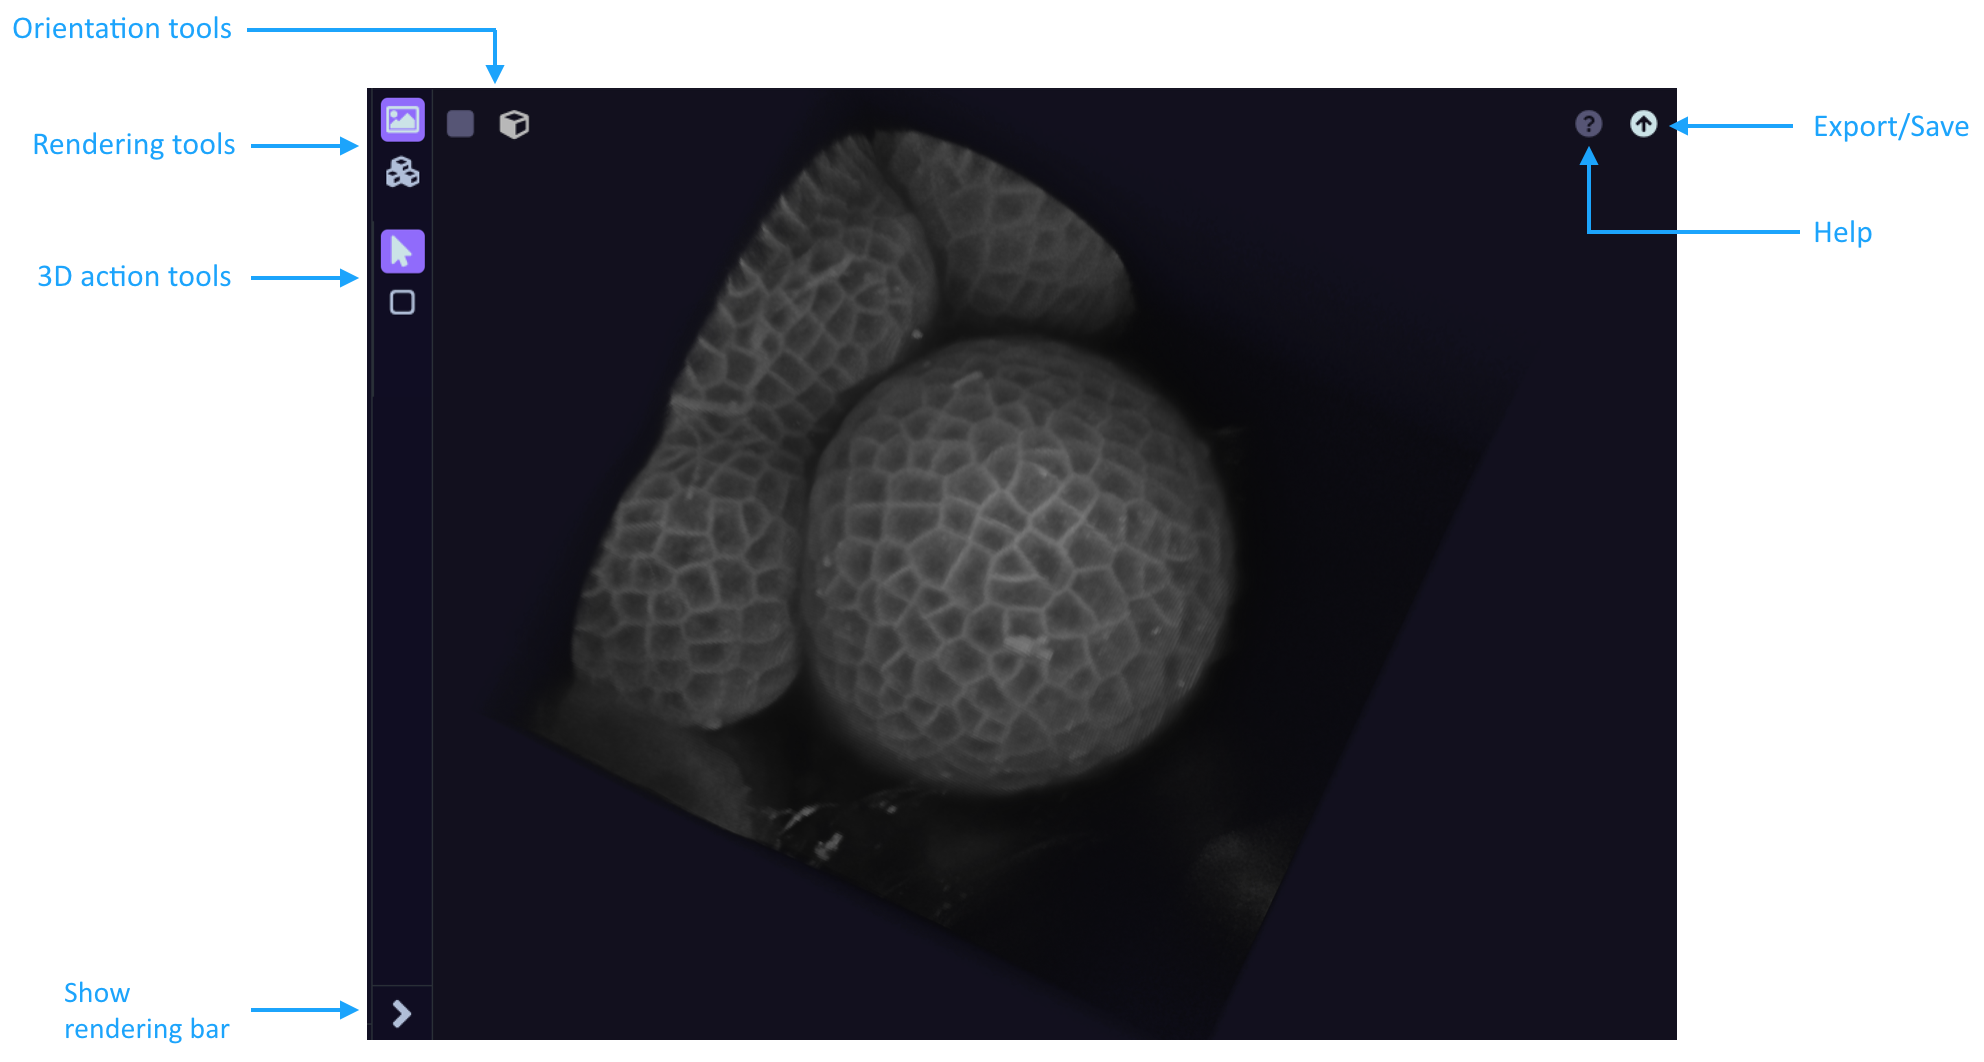
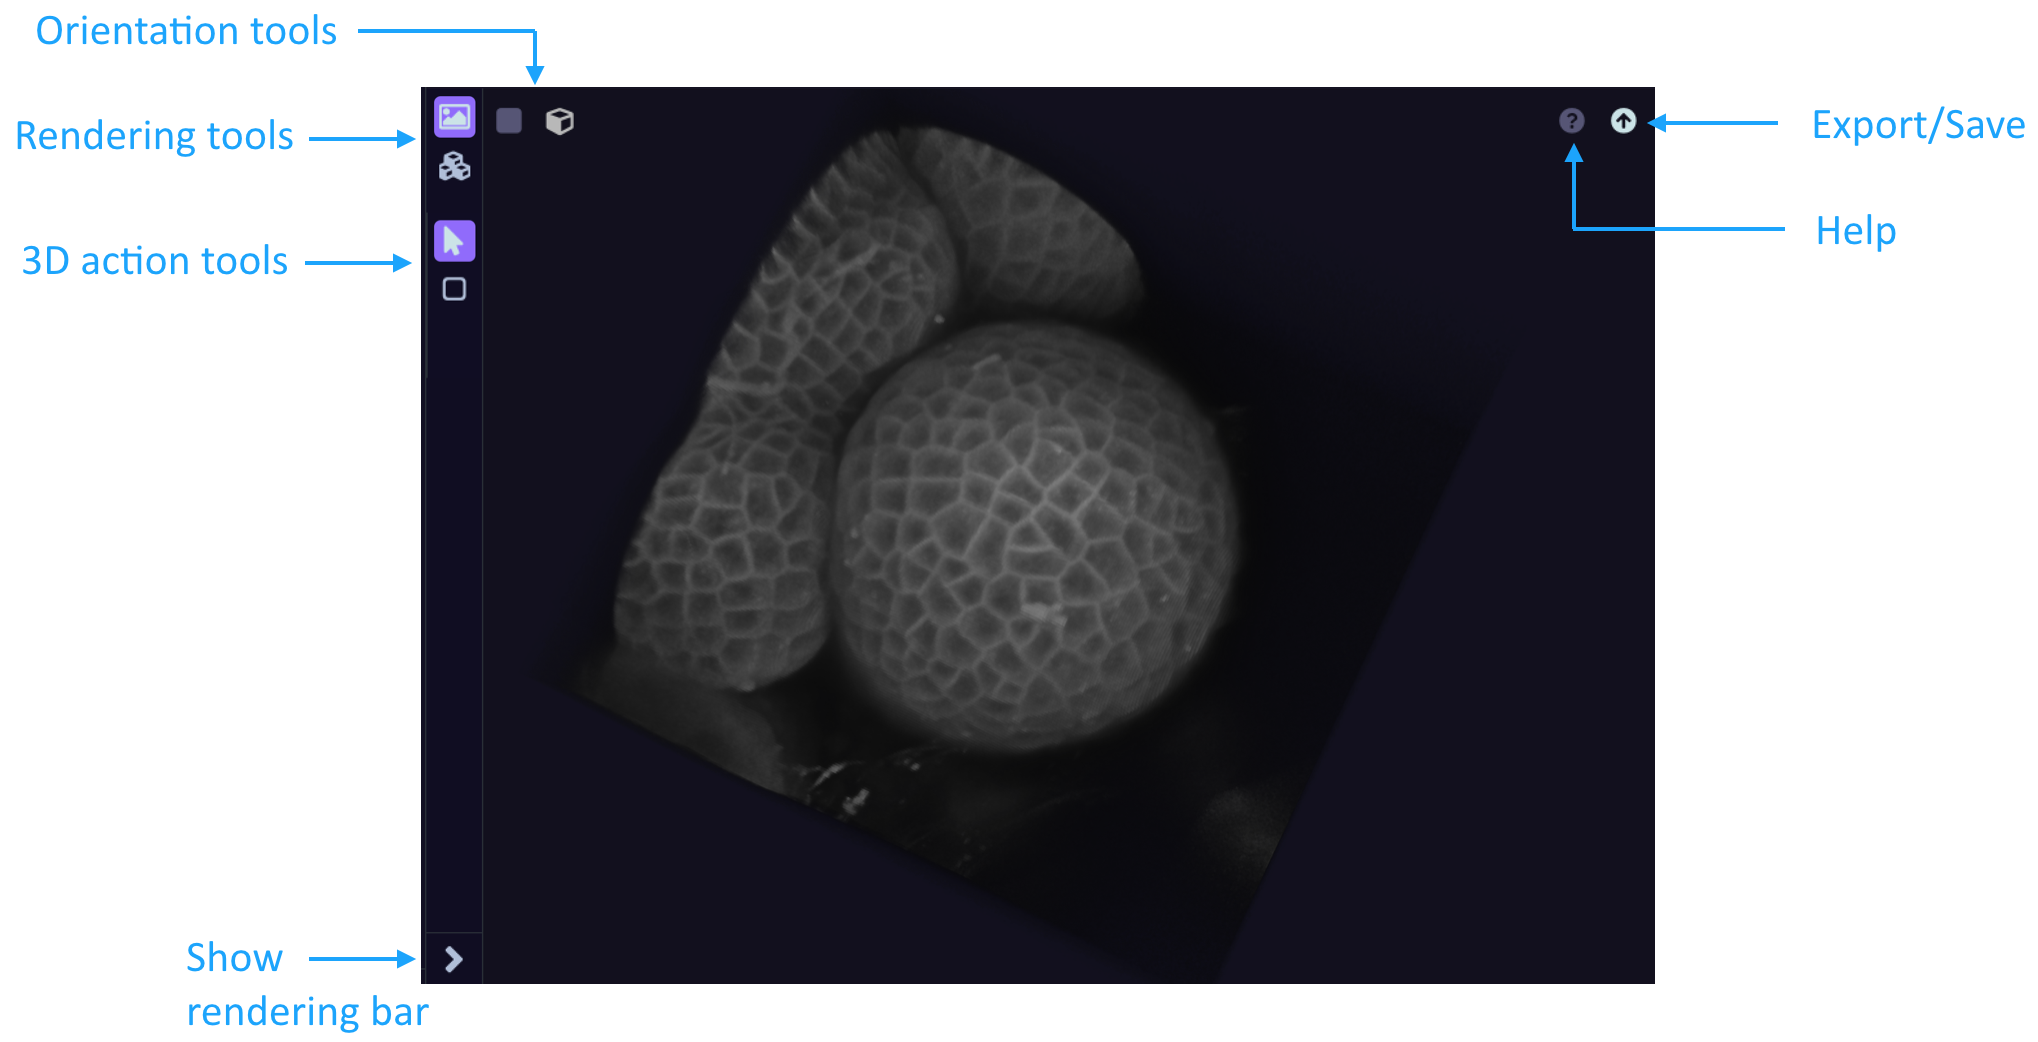
Update 3DViewer doc

diff --git a/doc/workspaces/3DViewer.rst b/doc/workspaces/3DViewer.rst
@@ -13,7 +13,7 @@
 
 .. figure:: Images/3DViewer_fig1.png
     :align: center
-    :scale: 25
+    :scale: 35
     :alt: alternate text
     :figclass: align-center
 
@@ -38,15 +38,33 @@ only the surface of one of the 3D channel data. This last option is better to ge
 
 .. figure:: Images/3DViewer_fig2.png
     :align: center
-    :scale: 25
+    :scale: 40
     :alt: alternate text
     :figclass: align-center
 
-    3D Data (multi-modal) visualization using *gnomonVisualisationImageChannelBlending* (Left) or
+    3D multi-modal data visualization using *gnomonVisualisationImageChannelBlending* (Left) or
     *gnomonVisualizationImageSurface* (Right)
+
+You can also use the left-arrow at the bottom-left corner of the 3D Viewer to access the **Image** and
+**3D Form Viewer** spaces.
 
 Orientation tools
 =================
+
+Orientation tools include two buttons corresponding to the 2D view (slice) or the default 3D view. When clicking on the
+2D view button, the XY plane is displayed by default. Also a slider at the left of the 3D Viewer appears allowing to
+move along the slices.
+
+.. figure:: Images/3DViewer_fig3.png
+    :align: center
+    :scale: 40
+    :alt: alternate text
+    :figclass: align-center
+
+    3D view (left) and 2D view (right) of an intensity 3D image. Notice the left slider for the 2D view allowing to
+    move along the z-slices.
+
+
 
 3d action tools
 ===============
